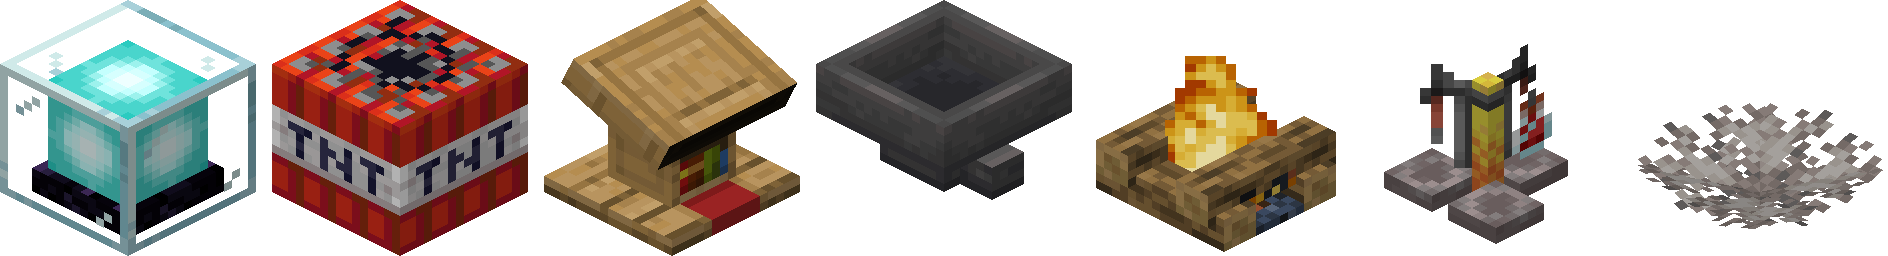
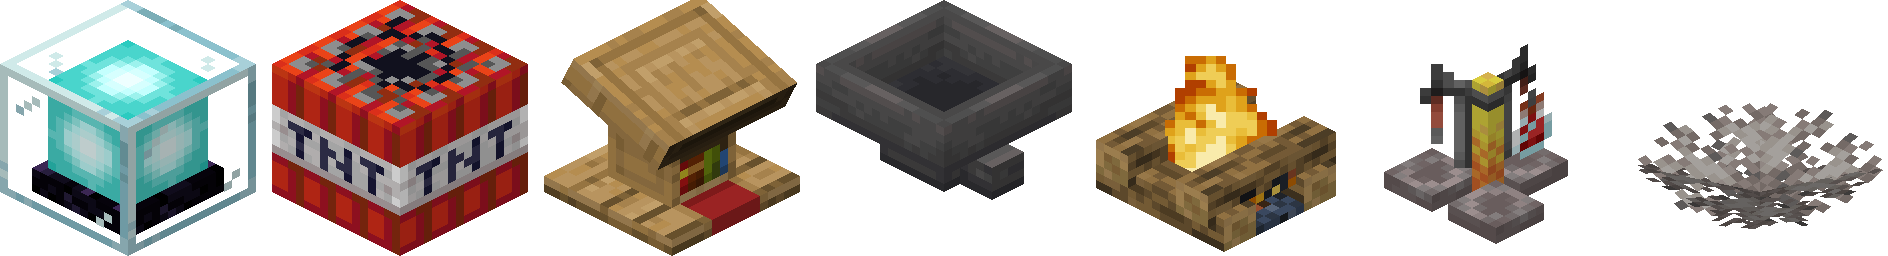
improve API

diff --git a/rasterizer.py b/rasterizer.py
@@ -4,13 +4,31 @@ import numpy
 from io import BytesIO
 from PIL import Image, ImageEnhance, ImageOps, ImageDraw
 
+class JarFileProvider(object):
+    def __init__(self, jar_path):
+        self.jar = zipfile.ZipFile(jar_path)
+    
+    def find_file(self, filename):
+        return self.jar.open(filename)
+
+    def load_json(self, filename):
+        fileobj = self.find_file(filename)
+        data = json.load(fileobj)
+        return data
+
+    def load_image(self, filename):
+        fileobj = self.find_file(filename)
+        buffer = BytesIO(fileobj.read())
+        img = Image.open(buffer).convert("RGBA")
+        return img
+
 class Rasterizer(object):
-    def __init__(self, minecraft_jar, dimensions=(24, 24)):
-        self.jar = zipfile.ZipFile(minecraft_jar)
+    def __init__(self, file_provider, dimensions=(24, 24)):
+        self.file_provider = file_provider
         self.bgcolor = (26, 26, 26, 0)
         self.texture_dimensions = dimensions
 
-        self.light_vector  = numpy.array([ -0.7, +1.2, +0.6 ])
+        self.light_vector  = numpy.array([ -0.8, +1.0, +0.7 ])
         #self.light_vector /= numpy.linalg.norm(self.light_vector)
 
         self.projection = numpy.array([
@@ -50,23 +68,6 @@ class Rasterizer(object):
             name = name[10:]
         return name
 
-    def get_file(self, filename):
-        self.jar.getinfo(filename)
-        return self.jar.open(filename)
-    
-    def load_json(self, filename):
-        fileobj = self.get_file(filename)
-        return json.load(fileobj)
-
-    def load_texture(self, name):
-        fileobj = self.get_file("assets/minecraft/textures/%s.png" % self.remove_namespace(name))
-        buffer = BytesIO(fileobj.read())
-        img = Image.open(buffer).convert("RGBA")
-        return img
-    
-    def load_model(self, name):
-        return self.load_json("assets/minecraft/models/%s.json" % self.remove_namespace(name))
-    
     def render_quad(self, image, zbuffer, texture, uv, uv_matrix, points):
         # extended version of https://gist.github.com/seece/4b170e21ccd3aa12e747b7702464a727
 
@@ -131,7 +132,7 @@ class Rasterizer(object):
 
         return matrix
 
-    def render_block(self, block_name, variant=""):
+    def render_block(self, block_name, variant="", props={}):
         image = numpy.zeros((
             self.texture_dimensions[0] * self.texture_dimensions[1],
             4
@@ -141,20 +142,23 @@ class Rasterizer(object):
             self.texture_dimensions[0] * self.texture_dimensions[1]
         ))
 
-        blockstates = self.load_json("assets/minecraft/blockstates/%s.json" % block_name)
+        blockstates = self.file_provider.load_json(
+            "assets/minecraft/blockstates/%s.json" % block_name
+        )
+
         if "variants" in blockstates:
             blockstate = blockstates["variants"][variant]
-            self.render_part(blockstate, image, zbuffer)
+            self.render_part(blockstate, image, zbuffer, props)
         elif "multipart" in blockstates:
             state = dict((x.split("=") for x in variant.split(",")))
             for part in blockstates["multipart"]:
                 if all((state[k] == v for (k,v) in part.get("when", {}).items())):
-                    self.render_part(part["apply"], image, zbuffer)
+                    self.render_part(part["apply"], image, zbuffer, props)
 
         image = image.reshape((*self.texture_dimensions, 4))
         return Image.fromarray(image)
         
-    def render_part(self, blockstate, image, zbuffer):
+    def render_part(self, blockstate, image, zbuffer, props):
         if isinstance(blockstate, list):
             # @todo why?
             self.render_part(blockstate[0], image, zbuffer)
@@ -178,7 +182,10 @@ class Rasterizer(object):
         
         model_name = blockstate["model"]
         while True:
-            model = self.load_model(model_name)
+            model = self.file_provider.load_json(
+                "assets/minecraft/models/%s.json" % self.remove_namespace(model_name)
+            )
+
             if "textures" in model:
                 textures.update({
                     k: resolve_texture(v)
@@ -190,6 +197,9 @@ class Rasterizer(object):
                 model_name = model["parent"]
             else:
                 break
+
+        if model_name == "block/cube":
+            props["solid"] = True
 
         if "elements" not in model:
             raise KeyError("'%s' does not have a model" % model_name)
@@ -228,8 +238,11 @@ class Rasterizer(object):
                 quad = numpy.matmul(global_matrix, quad) + global_shift
                 quad = quad.transpose() / 16 # scale down to [0;1] range
 
-                texture = resolve_texture(side_data["texture"])
-                texture = numpy.asarray(self.load_texture(texture))
+                texture = numpy.asarray(self.file_provider.load_image(
+                    "assets/minecraft/textures/%s.png" % self.remove_namespace(
+                        resolve_texture(side_data["texture"])
+                    )
+                ))
 
                 uv_rotation = side_data.get("rotation", 0)/180*numpy.pi
                 cos, sin = numpy.cos(uv_rotation), numpy.sin(uv_rotation)

diff --git a/demo.py b/demo.py
@@ -1,32 +1,38 @@
-from rasterizer import Rasterizer
+from rasterizer import Rasterizer, JarFileProvider
 from PIL import Image
 
 WIDTH = 256
 HEIGHT = WIDTH
 SPACER = 16
 
-renderer = Rasterizer(
-    "/Users/alex/Library/Application Support/minecraft/versions/20w19a/20w19a.jar",
+file_provider = JarFileProvider(
+    "/Users/alex/Library/Application Support/minecraft/versions/20w19a/20w19a.jar"
+)
+
+rasterizer = Rasterizer(
+    file_provider,
     (WIDTH, HEIGHT)
 )
 
 blocks = [
-    renderer.render_block("beacon"),
-    renderer.render_block("tnt"),
-    renderer.render_block("lectern", "facing=south"),
-    renderer.render_block("hopper", "facing=south"),
-    renderer.render_block("campfire", "facing=north,lit=true"),
-    renderer.render_block(
+    rasterizer.render_block("beacon"),
+    rasterizer.render_block("tnt"),
+    rasterizer.render_block("lectern", "facing=south"),
+    rasterizer.render_block("hopper", "facing=south"),
+    rasterizer.render_block("campfire", "facing=north,lit=true"),
+    rasterizer.render_block(
         "brewing_stand",
         "has_bottle_0=true,has_bottle_1=false,has_bottle_2=false"
     ),
-    renderer.render_block("dead_brain_coral_fan")
+    rasterizer.render_block("dead_brain_coral_fan")
 ]
 
 banner = Image.new("RGBA", (
     len(blocks) * (WIDTH + SPACER) - SPACER,
     HEIGHT
 ))
+
 for i,block in enumerate(blocks):
     banner.paste(block, (i * (WIDTH + SPACER), 0))
+
 banner.save("demo/banner.png")
